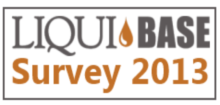
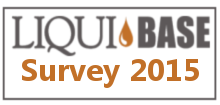
2015 Liquibase Survey added

Changed region(s): [[0.0545, 0.5429, 0.5727, 0.9143], [0.5727, 0.5429, 0.9545, 0.8286]]

diff --git a/_layouts/default.html b/_layouts/default.html
@@ -134,6 +134,8 @@
                     {% endcase %}
                 </ul>
 
+                <a href="http://goo.gl/forms/TNXBl5GsPv" style="border: none" onclick="trackOutboundLink(this, 'Survey', 'Survey 2015'); return false;"><img src="/custom_images/survey.png"></a>
+
                 <!-- Begin MailChimp Signup Form -->
                         <!-- Begin MailChimp Signup Form -->
                         <div id="mc_embed_signup" style="padding-right: 10px; float: left">

diff --git a/_posts/2015-08-18-survey-2015.md b/_posts/2015-08-18-survey-2015.md
@@ -1,0 +1,19 @@
+---
+layout: default
+subnav: subnav_blog.md
+title: Liquibase Survey 2015
+---
+
+One problem with running an open source project is that we don't really have "customers" to contact for feedback and product suggestions. I can always just add features that **I** think make sense, but one thing I've learned is that people use Liquibase in amazing ways I would never have imagined.
+
+That is where the **[Liquibase survey](http://goo.gl/forms/TNXBl5GsPv)** comes in: it is your chance to provide feedback on how you use Liquibase and what is important to you so that I can better prioritize efforts over the next year.
+
+## Your participation and time is greatly appreciated ##
+
+### -----> [Liquibase Survey 2015 Form](http://goo.gl/forms/TNXBl5GsPv) <----- ###
+
+If you know others that use Liquibase, please forward them the survey as well. Even better, if you know someone who is NOT using Liquibase, send them the survey as well.
+
+The more information I can gather the better picture I will have.
+
+**Survey runs until September 18th, 2015**
